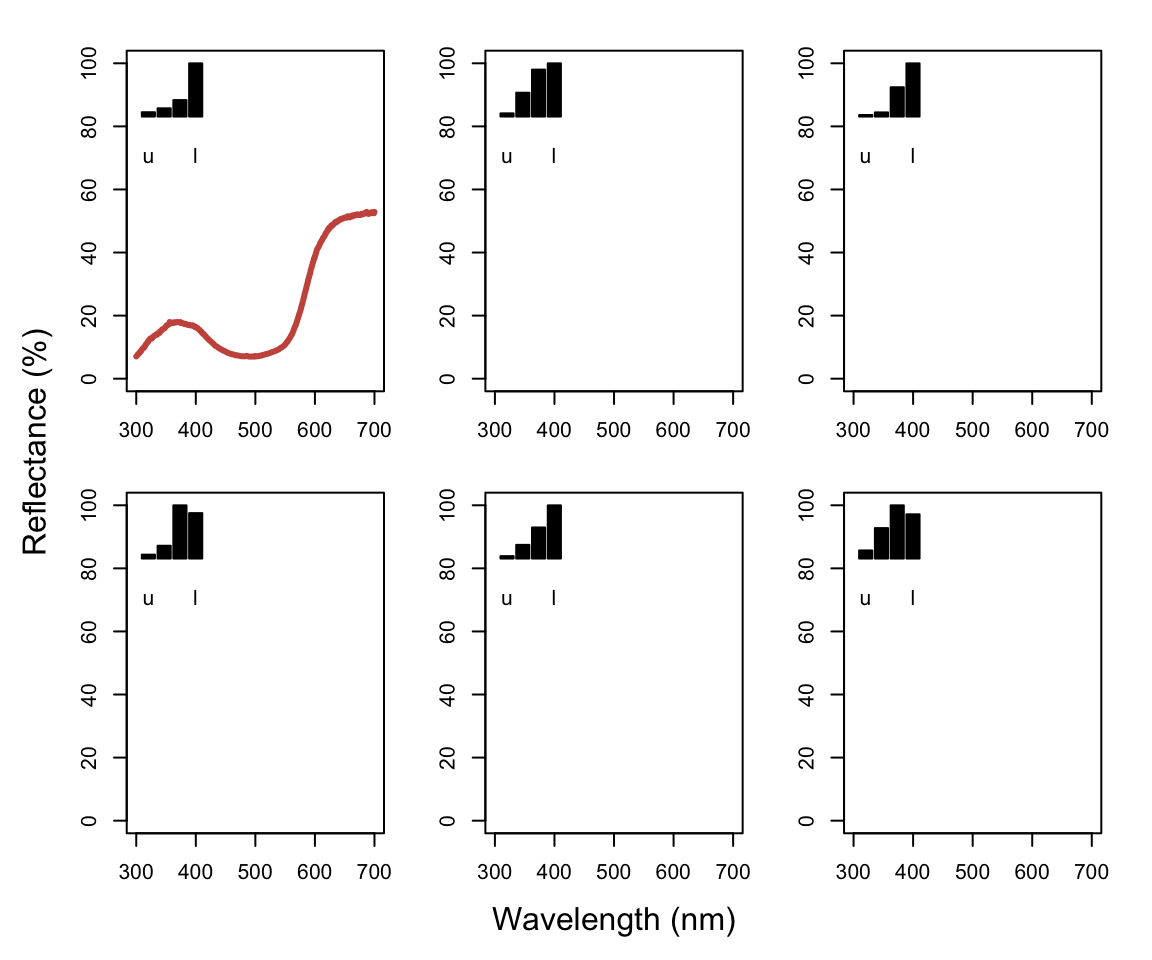
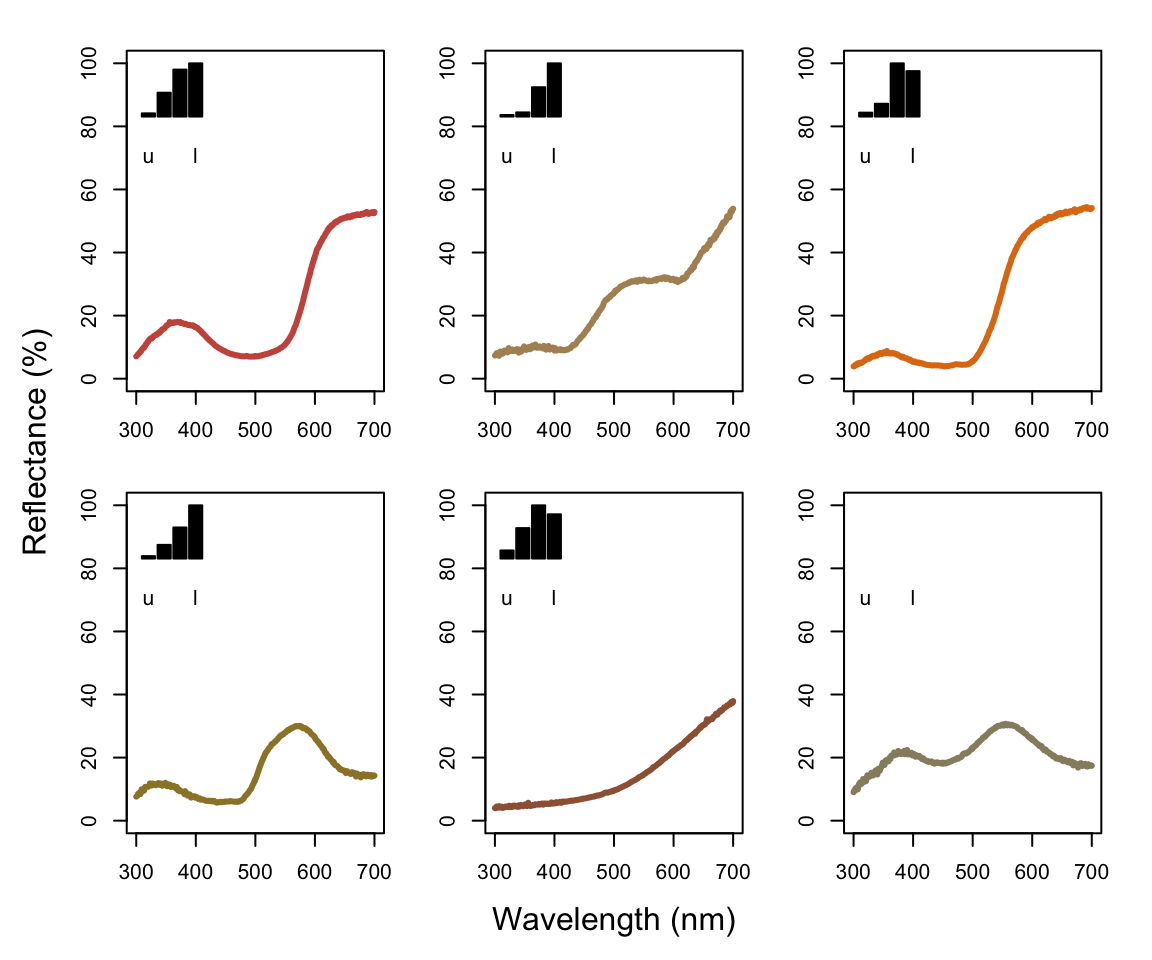
rebuild vignette & site

diff --git a/docs/articles/analysing.html b/docs/articles/analysing.html
@@ -369,9 +369,9 @@ Plot from <code>peakshape</code>, setting the wavelength limits to 300 and 500 n
 <a class="sourceLine" id="cb17-3" title="3"></a>
 <a class="sourceLine" id="cb17-4" title="4">sppspecol &lt;-<span class="st"> </span><span class="kw"><a href="../reference/spec2rgb.html">spec2rgb</a></span>(sppspec)</a>
 <a class="sourceLine" id="cb17-5" title="5"></a>
-<a class="sourceLine" id="cb17-6" title="6"><span class="cf">for</span> (i <span class="cf">in</span> <span class="dv">1</span><span class="op">:</span><span class="dv">6</span>) {</a>
+<a class="sourceLine" id="cb17-6" title="6"><span class="cf">for</span> (i <span class="cf">in</span> <span class="dv">2</span><span class="op">:</span><span class="dv">7</span>) {</a>
 <a class="sourceLine" id="cb17-7" title="7">  <span class="kw"><a href="https://www.rdocumentation.org/packages/graphics/topics/par">par</a></span>(<span class="dt">mar =</span> <span class="kw"><a href="https://www.rdocumentation.org/packages/base/topics/c">c</a></span>(<span class="dv">2</span>, <span class="dv">2</span>, <span class="dv">2</span>, <span class="dv">2</span>))</a>
-<a class="sourceLine" id="cb17-8" title="8">  <span class="kw"><a href="https://www.rdocumentation.org/packages/graphics/topics/plot">plot</a></span>(sppspec, <span class="dt">select =</span> i <span class="op">+</span><span class="st"> </span><span class="dv">1</span>, <span class="dt">col =</span> sppspecol[i], <span class="dt">lwd =</span> <span class="dv">3</span>, <span class="dt">ylim =</span> <span class="kw"><a href="https://www.rdocumentation.org/packages/base/topics/c">c</a></span>(<span class="dv">0</span>, <span class="dv">100</span>))</a>
+<a class="sourceLine" id="cb17-8" title="8">  <span class="kw"><a href="https://www.rdocumentation.org/packages/graphics/topics/plot">plot</a></span>(sppspec, <span class="dt">select =</span> i, <span class="dt">col =</span> sppspecol, <span class="dt">lwd =</span> <span class="dv">3</span>, <span class="dt">ylim =</span> <span class="kw"><a href="https://www.rdocumentation.org/packages/base/topics/c">c</a></span>(<span class="dv">0</span>, <span class="dv">100</span>))</a>
 <a class="sourceLine" id="cb17-9" title="9">  <span class="kw"><a href="https://www.rdocumentation.org/packages/graphics/topics/par">par</a></span>(<span class="dt">mar =</span> <span class="kw"><a href="https://www.rdocumentation.org/packages/base/topics/c">c</a></span>(<span class="fl">4.1</span>, <span class="fl">2.5</span>, <span class="fl">2.5</span>, <span class="dv">2</span>))</a>
 <a class="sourceLine" id="cb17-10" title="10">  <span class="kw"><a href="https://www.rdocumentation.org/packages/graphics/topics/barplot">barplot</a></span>(<span class="kw"><a href="https://www.rdocumentation.org/packages/base/topics/matrix">as.matrix</a></span>(vismod1[i, <span class="dv">1</span><span class="op">:</span><span class="dv">4</span>]), <span class="dt">yaxt =</span> <span class="st">"n"</span>, <span class="dt">col =</span> <span class="st">"black"</span>)</a>
 <a class="sourceLine" id="cb17-11" title="11">}</a>

diff --git a/docs/authors.html b/docs/authors.html
@@ -136,15 +136,15 @@
       <small class="dont-index">Source: <a href='https://github.com/rmaia/pavo/blob/master/inst/CITATION'><code>inst/CITATION</code></a></small>
     </div>
 
-    <p>Maia R, Gruson H, Endler JA, White TE (2018).
+    <p>Maia R, Gruson H, Endler JA, White TE (2019).
 &ldquo;pavo 2: new tools for the spectral and spatial analysis of colour in R.&rdquo;
-<em>bioRxiv</em>. 
+<em>Methods in Ecology and Evolution</em>. 
 </p>
     <pre>@Article{,
   title = {pavo 2: new tools for the spectral and spatial analysis of colour in R},
   author = {Rafael Maia and Hugo Gruson and John A. Endler and Thomas E. White},
-  journal = {bioRxiv},
-  year = {2018},
+  journal = {Methods in Ecology and Evolution},
+  year = {2019},
 }</pre>
     <div class="page-header">
       <h1>Authors</h1>
